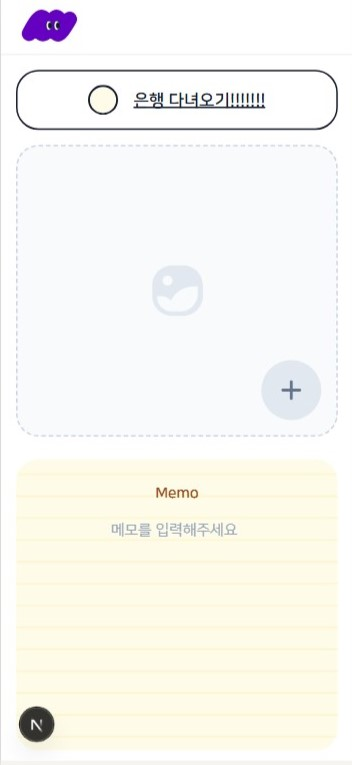
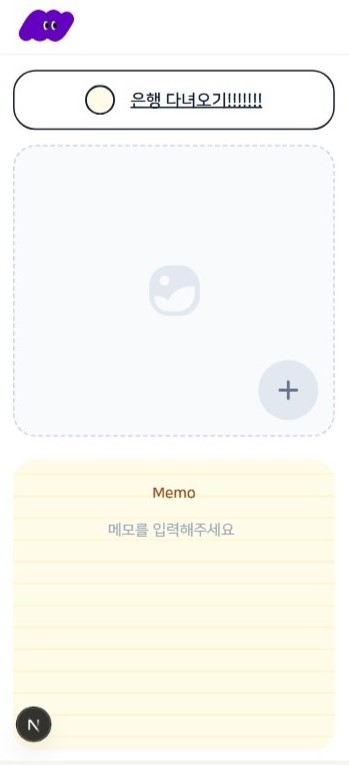
docs: README 수정

diff --git a/README.md b/README.md
@@ -44,9 +44,9 @@ npm run dev
 
 ### 1) 할 일 목록 페이지
 
-<div style="display: flex; gap: 16px;">
-  <img src="./public/screenshots/list-desktop.jpg" height="400" />
-  <img src="./public/screenshots/list-mobile.jpg" height="400" />
+<div style="display: flex; gap: 20px;">
+  <img src="./public/screenshots/list-desktop.jpg" height="300" />
+  <img src="./public/screenshots/list-mobile.jpg" height="300" />
 </div>
 
 - 상단 `로고` 클릭 시 메인 페이지(`/`)로 이동 (새로고침)
@@ -55,9 +55,9 @@ npm run dev
 
 ### 2) 할 일 상세 페이지
 
-<div style="display: flex; gap: 16px;">
-  <img src="./public/screenshots/detail-desktop.jpg" height="400" />
-  <img src="./public/screenshots/detail-mobile.jpg" height="400" />
+<div style="display: flex; gap: 20px;">
+  <img src="./public/screenshots/detail-desktop.jpg" height="300" />
+  <img src="./public/screenshots/detail-mobile.jpg" height="300" />
 </div>
 
 - 목록에서 단일 항목 클릭 시 해당 항목의 상세 페이지로 이동